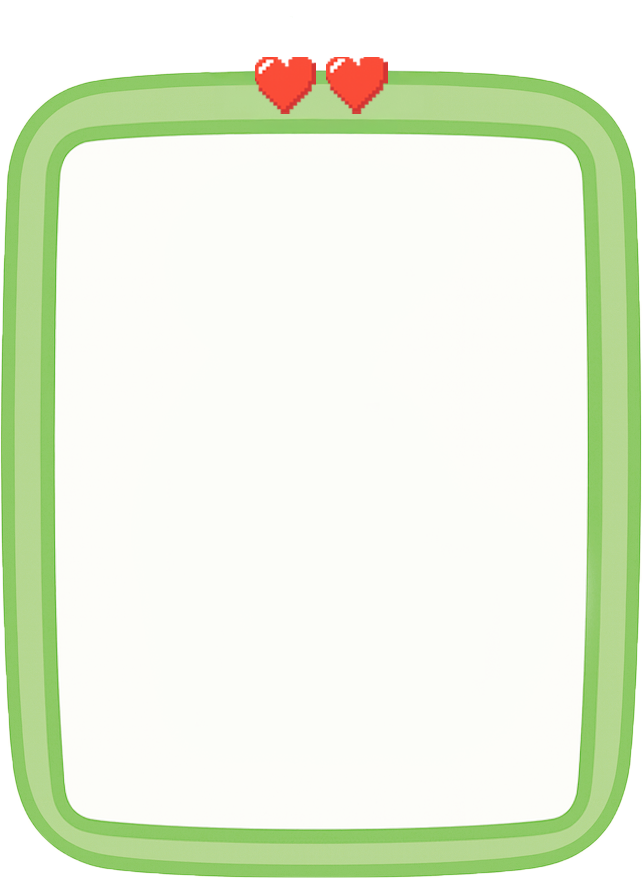
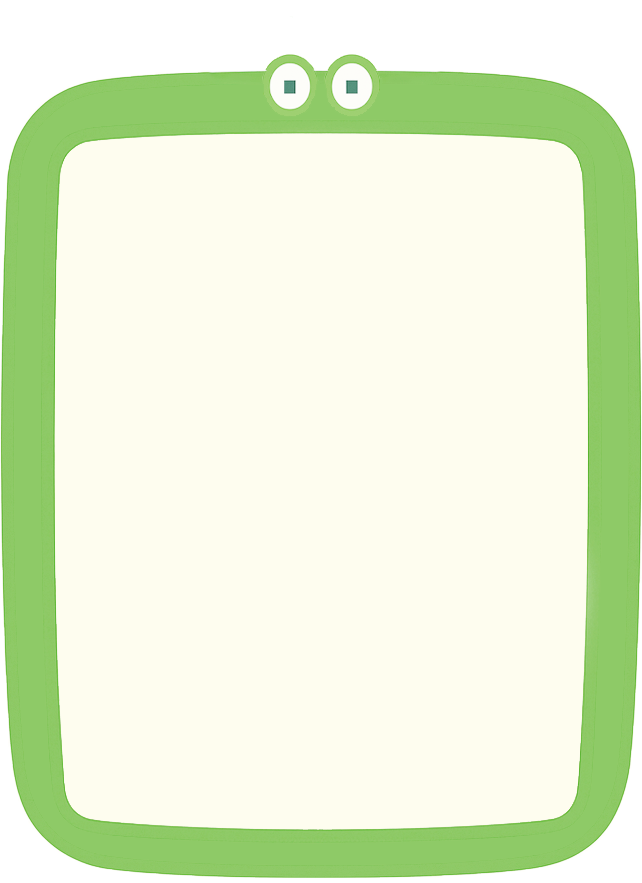
✨ 상품 카드 이미지 변경 및 padding 적용

Changed region(s): [[0.0, 0.0612, 0.9969, 1.0]]

diff --git a/FinMate/src/components/product/ProductCard.vue b/FinMate/src/components/product/ProductCard.vue
@@ -279,7 +279,8 @@ const getRiskLevel = (level) => {
 
 .scale {
   transform: scale(0.9);
-  margin-top: 3vh;
+  margin-top: 5vh;
+  padding: 1.3vh;
 }
 
 .product-card:hover {
@@ -293,7 +294,8 @@ const getRiskLevel = (level) => {
   background-color: #f8fff8; 
   box-shadow: 0 4px 16px rgba(76, 175, 80, 0.2); 
 }  */
-/* .bg-frog.selected {
+
+.bg-frog.selected {
   background-image: url('@/assets/images/etc/frog!.png');
 }
 .bg-chick.selected {
@@ -301,8 +303,7 @@ const getRiskLevel = (level) => {
 }
 .bg-rabbit.selected {
   background-image: url('@/assets/images/etc/rabbit!.png');
-} */
-
+}
 .card-header {
   display: flex;
   justify-content: space-between;

diff --git a/FinMate/src/components/product/SearchByCondition.vue b/FinMate/src/components/product/SearchByCondition.vue
@@ -438,7 +438,6 @@ onMounted(() => {
 
 <style scoped>
 .search-condition-container {
-  background: url('@/assets/images/etc/background.png') no-repeat center;
   background-size: cover;
   background-position: center;
   background-repeat: no-repeat;
